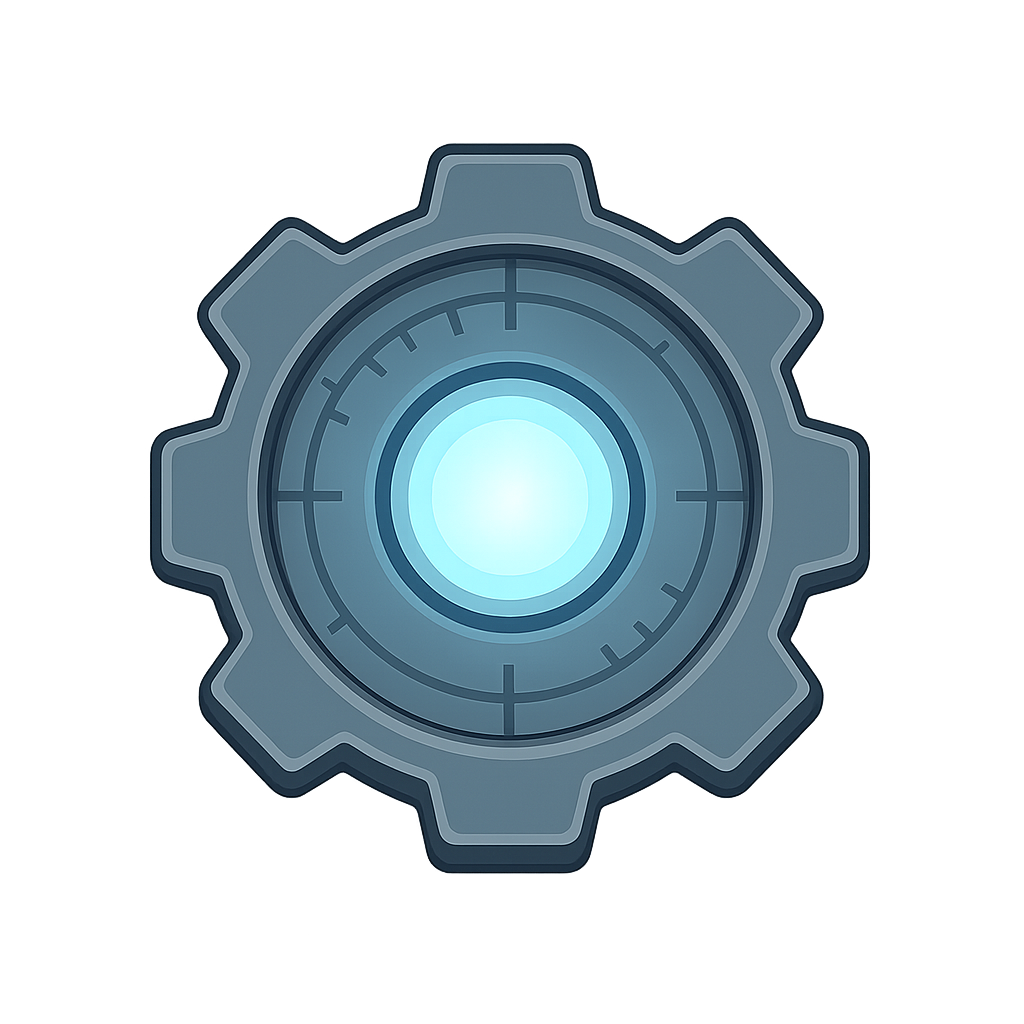
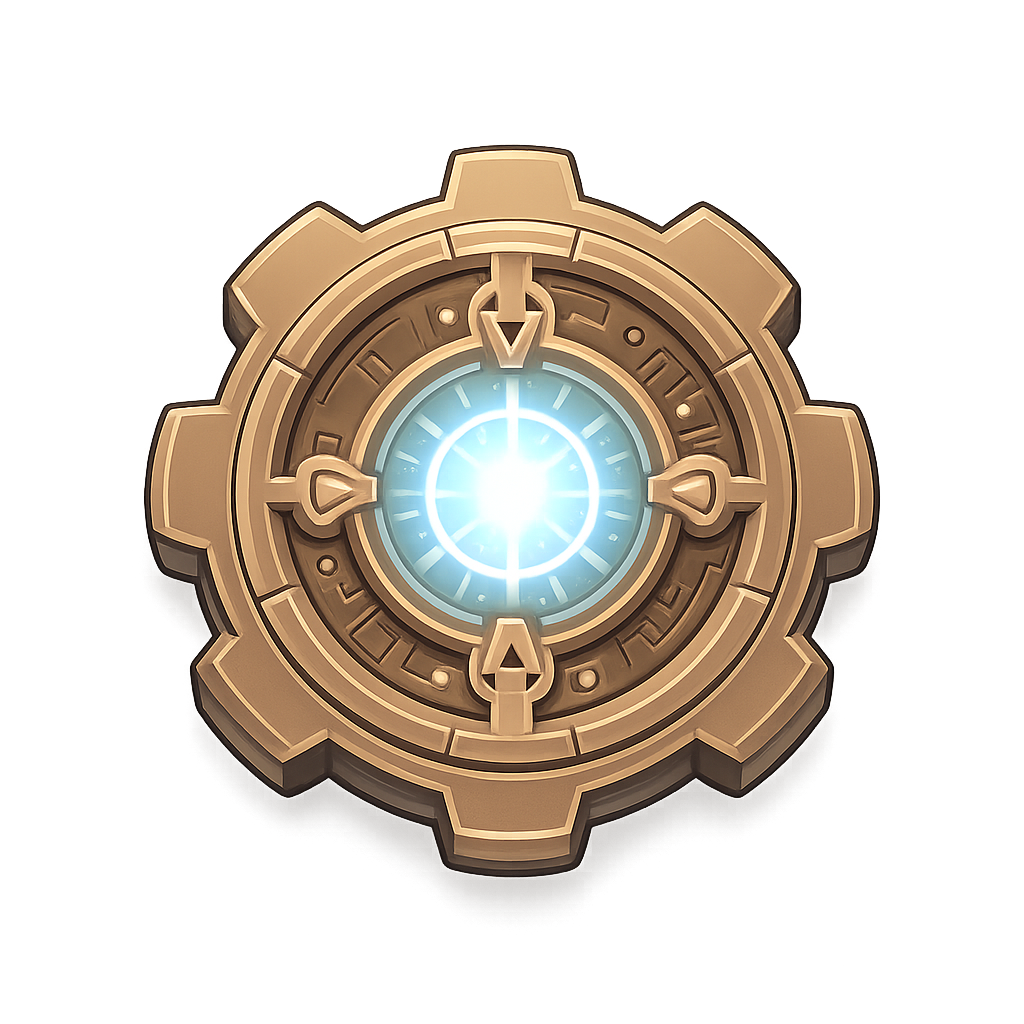
Gestion de la corruption du rouage et de ces charges

diff --git a/frontend/src/app/components/board.component.ts b/frontend/src/app/components/board.component.ts
@@ -136,14 +136,15 @@ interface BoardCell {
             <div
               *ngIf="getMechanismAtPosition(cell.x, cell.y) as mech"
               class="mechanism"
-              [class]="mech.type"
-              [title]="getMechanismTitle(mech.type)"
+              [ngClass]="[mech.type, (mech.type === 'cog' && (mech.charges || 0) > 0) ? 'has-charges' : '']"
+              [title]="getMechanismTitle(mech.type) + (mech.charges ? ' (' + mech.charges + ' charges)' : '')"
             >
               <img
                 [src]="getMechanismImage(mech.type, mech.charges)"
                 [alt]="getMechanismTitle(mech.type)"
                 class="mechanism-image"
               />
+              <span *ngIf="mech.type === 'cog' && (mech.charges || 0) > 0" class="charge-badge">{{ mech.charges }}</span>
             </div>
 
             <!-- Spell Action Indicator -->
@@ -586,6 +587,34 @@ interface BoardCell {
       filter: drop-shadow(0 0 4px rgba(255, 209, 102, 0.8));
     }
 
+    /* Rouage avec charges - teinte bleue via CSS (remplace rouage-bleu.png corrompu) */
+    .board .mechanism.cog.has-charges .mechanism-image {
+      filter: drop-shadow(0 0 8px rgba(76, 201, 240, 1))
+              hue-rotate(180deg)
+              saturate(1.5)
+              brightness(1.1);
+    }
+
+    /* Badge affichant le nombre de charges */
+    .board .mechanism .charge-badge {
+      position: absolute;
+      bottom: 2px;
+      right: 2px;
+      background: linear-gradient(135deg, #4cc9f0, #00b4d8);
+      color: #0b1220;
+      font-size: 10px;
+      font-weight: bold;
+      min-width: 16px;
+      height: 16px;
+      border-radius: 8px;
+      display: flex;
+      align-items: center;
+      justify-content: center;
+      padding: 0 4px;
+      box-shadow: 0 1px 3px rgba(0, 0, 0, 0.5);
+      z-index: 10;
+    }
+
     /* Rouage (cog) - TOUJOURS au premier plan */
     .board .mechanism.cog {
       z-index: 3 !important; /* Au-dessus de tout */
@@ -1013,26 +1042,8 @@ export class BoardComponent {
       }
 
       // Exclure les sorts qui créent des mécanismes (ils ont leur propre représentation visuelle)
-      if (a.type === 'CastSpell' && a.spellId && isSpellMechanism(a.spellId)) {
-        return false;
-      }
-
-      return true;
+      return !(a.type === 'CastSpell' && a.spellId && isSpellMechanism(a.spellId));
     });
-  }
-
-  /**
-   * Get mechanism icon (deprecated - kept for backward compatibility)
-   */
-  getMechanismIcon(type: string): string {
-    switch(type) {
-      case 'cog':
-      case 'gear': return '⚙';
-      case 'dial': return '⏰';
-      case 'sinistro': return '💀';
-      case 'regulateur': return '🔧';
-      default: return '⚡';
-    }
   }
 
   /**
@@ -1043,32 +1054,10 @@ export class BoardComponent {
   }
 
   /**
-   * Get mechanism image URL (gère les heures du cadran)
-   */
-  getMechanismImageUrl(mechanism: any): string {
-    // Si c'est une heure du cadran (a une propriété hour et un dialId)
-    if (mechanism.type === 'dial' && mechanism.hour && mechanism.dialId) {
-      return `http://localhost:8080/resources/dial/dial_hours-${mechanism.hour}.png`;
-    }
-    // Sinon, utiliser l'image normale du mécanisme
-    return this.getMechanismImage(mechanism.type, mechanism.charges);
-  }
-
-  /**
    * Get mechanism title (localized name)
    */
   getMechanismTitle(type: string): string {
     return getMechanismDisplayName(type);
-  }
-
-  /**
-   * Get mechanism title with hour (pour les heures du cadran)
-   */
-  getMechanismTitleWithHour(mechanism: any): string {
-    if (mechanism.type === 'dial' && mechanism.hour) {
-      return `Cadran - ${mechanism.hour}h`;
-    }
-    return this.getMechanismTitle(mechanism.type);
   }
 
   /**
@@ -1138,7 +1127,6 @@ export class BoardComponent {
 
     // ✅ Le step a réussi : avancer l'index et mettre à jour le board
     this.timelineService.nextStep();
-    const newIndex = this.currentStepIndex();
 
     // Appliquer les actions visuelles (mécanismes, etc.)
     const step = timeline.steps[realStepIndex];
@@ -1167,7 +1155,7 @@ export class BoardComponent {
     console.log('');
   }
 
-  private async applyVisualAction(action: TimelineAction, build: Build, stepIndex: number): Promise<void> {
+  private async applyVisualAction(action: TimelineAction, _build: Build, stepIndex: number): Promise<void> {
     if (action.type === 'CastSpell' && action.spellId) {
       // Vérifier si le sort crée un mécanisme
       console.log(`🔍 Analyse du sort: "${action.spellId}"`);
@@ -1236,10 +1224,13 @@ export class BoardComponent {
       let rotatedX = offsetX;
       let rotatedY = offsetY;
 
+      // Rotation de 90 degrés (sens horaire) appliquée 'rotation' fois
       for (let i = 0; i < rotation; i++) {
-        const tempX = rotatedX;
-        rotatedX = -rotatedY;
-        rotatedY = tempX;
+        // Formule de rotation: (x, y) -> (-y, x)
+        const newX = -rotatedY;
+        const newY = rotatedX;
+        rotatedX = newX;
+        rotatedY = newY;
       }
 
       const hourPosition = {
@@ -1374,7 +1365,7 @@ export class BoardComponent {
         totalMpUsed += stepMp;
 
         console.log('📊 Résultats du step:', {
-          dégâts: stepDamage,
+          degats: stepDamage,
           PA: stepPa,
           WP: stepWp,
           MP: stepMp

diff --git a/frontend/src/app/utils/mechanism-utils.ts b/frontend/src/app/utils/mechanism-utils.ts
@@ -73,12 +73,12 @@ export function getMechanismDisplayName(type: string): string {
 /**
  * Get mechanism image path
  */
-export function getMechanismImagePath(type: string, charges?: number): string {
+export function getMechanismImagePath(type: string, _charges?: number): string {
   switch (type) {
     case 'cog':
     case 'gear':
-      // Utilise le rouage bleu si le mécanisme a des charges
-      return charges && charges > 0 ? 'resources/rouage-bleu.png' : 'resources/rouage.png';
+      // Utilise toujours rouage.png - le CSS gère la teinte bleue quand il y a des charges
+      return 'resources/rouage.png';
     case 'dial':
       return 'resources/dial/dial-center.png';
     case 'sinistro':
@@ -112,7 +112,7 @@ export function calculateDialHourPositions(centerX: number, centerY: number): Ar
 
   // Positions des heures comme sur une horloge (sens horaire à partir de 12h)
   // Basé sur les positions exactes de Wakfu
-  const hourPositions = [
+  return [
     { hour: 12, x: centerX, y: centerY - radius },      // 12h : (0, -3) Nord
     { hour: 1, x: centerX + 1, y: centerY - 2 },        // 1h : (+1, -2)
     { hour: 2, x: centerX + 2, y: centerY - 1 },        // 2h : (+2, -1)
@@ -126,8 +126,6 @@ export function calculateDialHourPositions(centerX: number, centerY: number): Ar
     { hour: 10, x: centerX - 2, y: centerY - 1 },       // 10h : (-2, -1)
     { hour: 11, x: centerX - 1, y: centerY - 2 },       // 11h : (-1, -2)
   ];
-
-  return hourPositions;
 }
 
 /**
